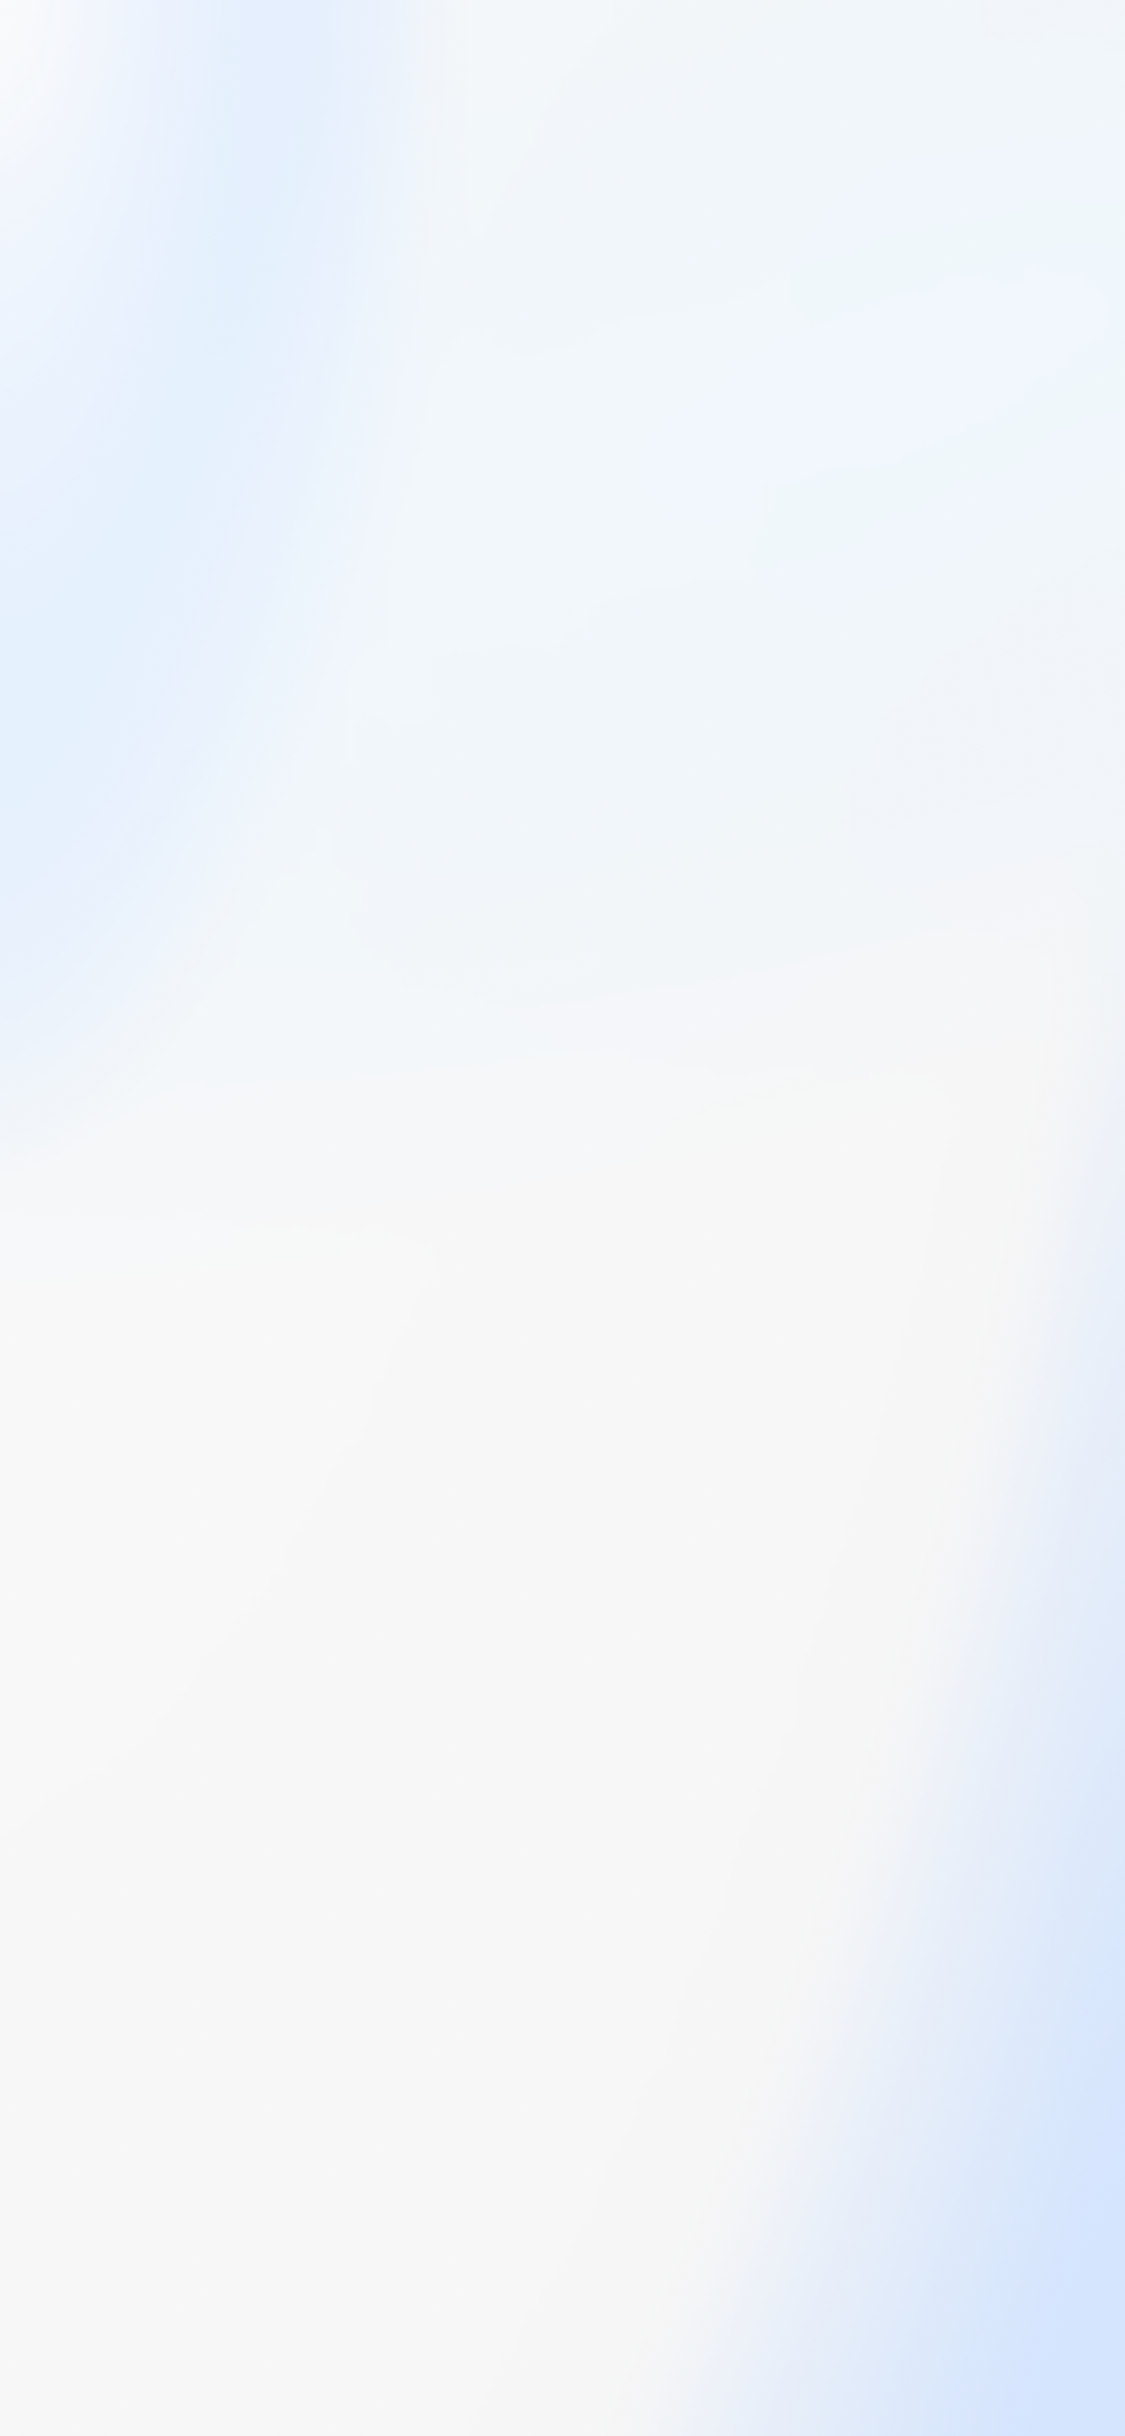
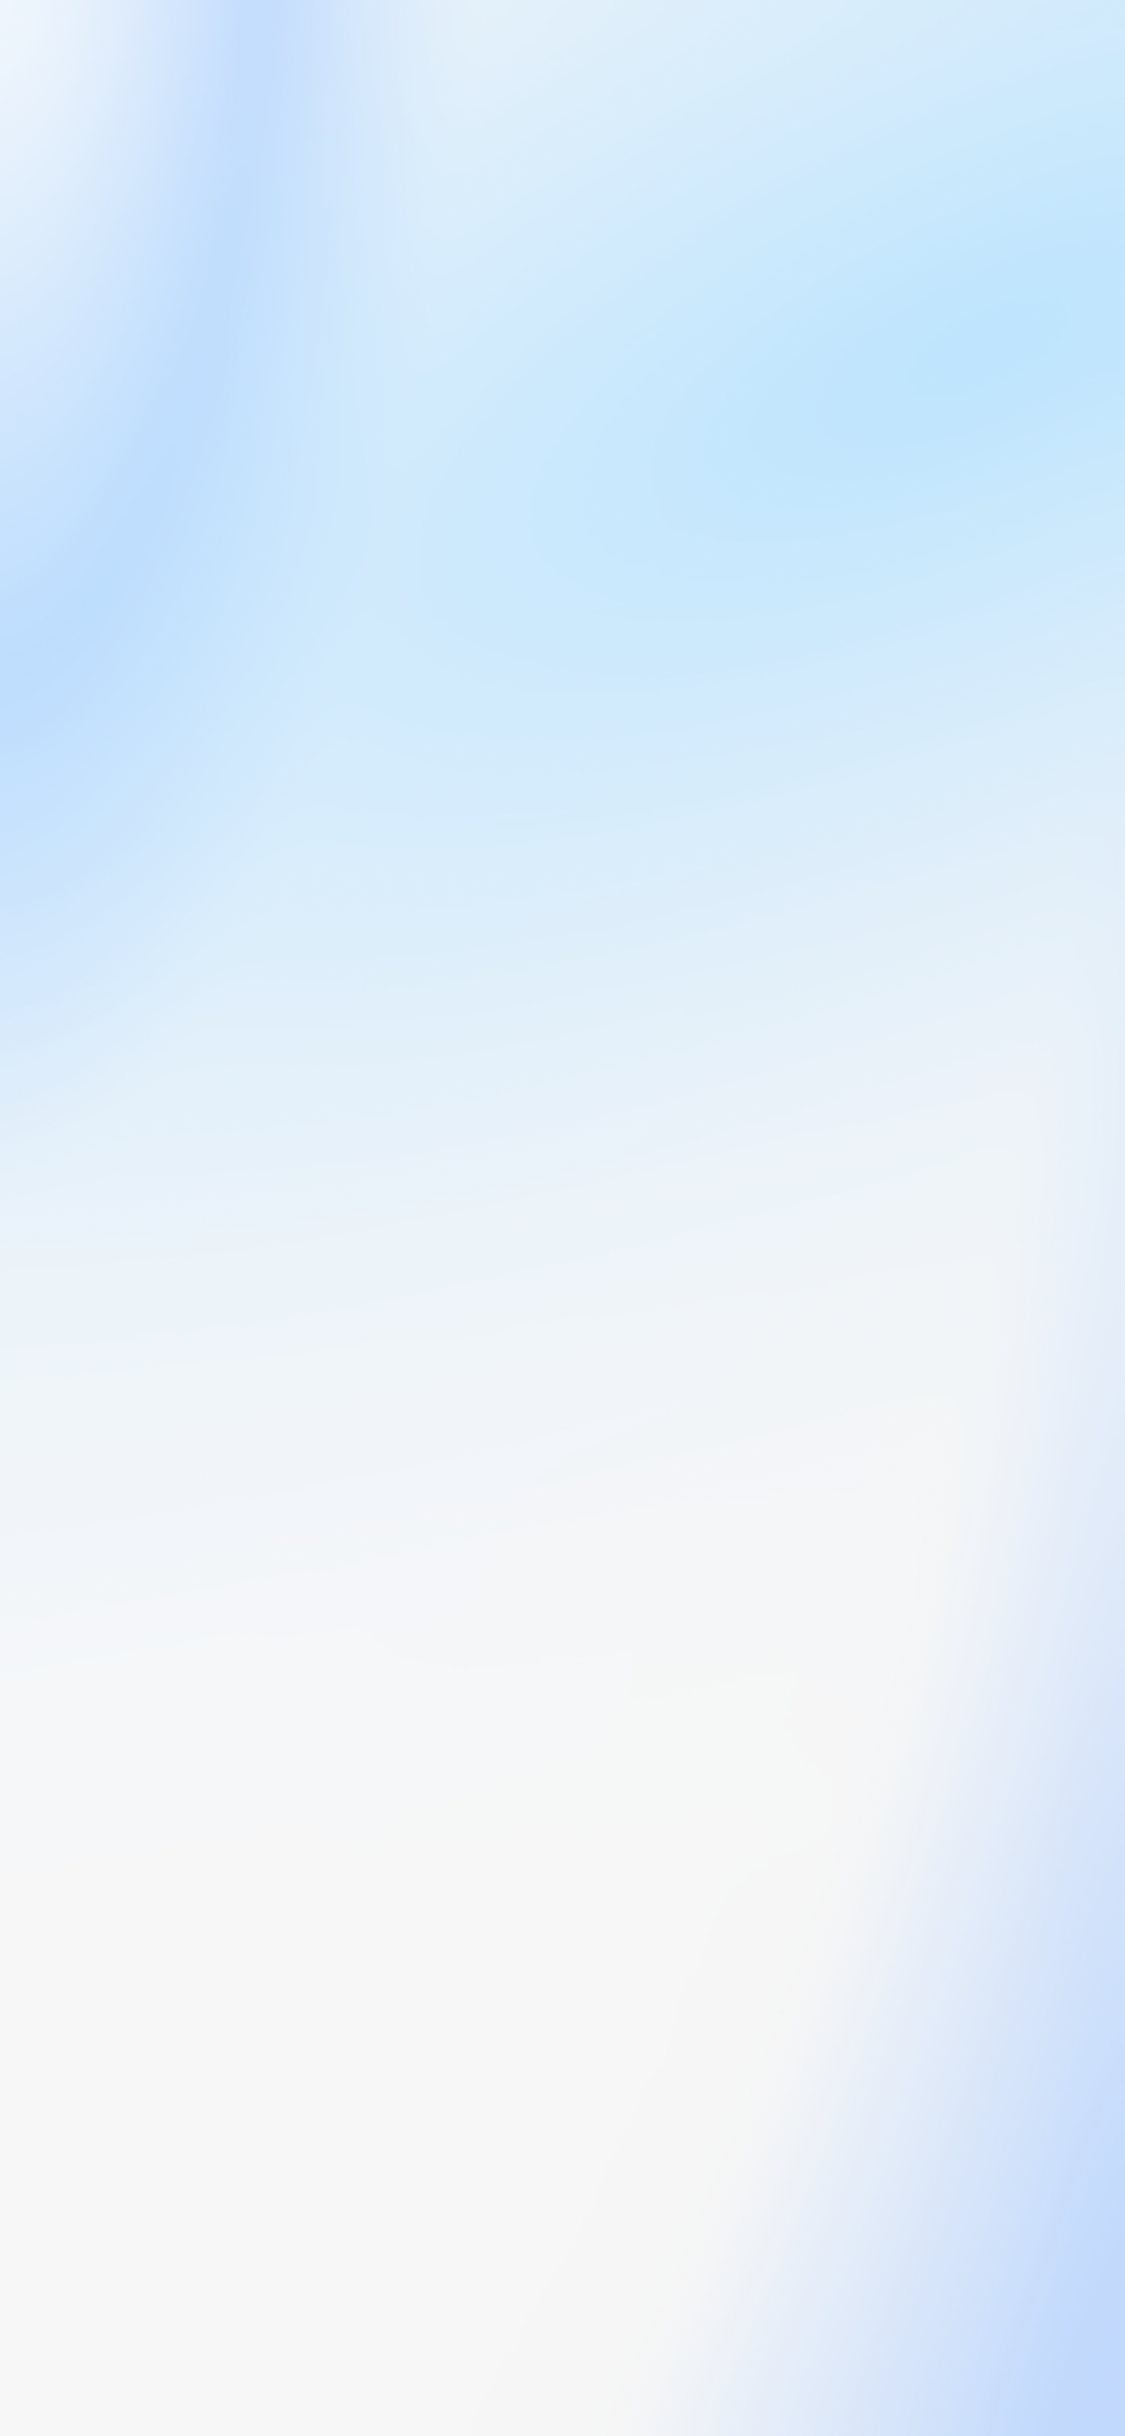
style: 배경 및 통근버스 디자인 수정, 홈 아이콘 추가

Changed region(s): [[0.0, 0.0, 1.0, 0.4056]]

diff --git a/lib/pages/bus/widgets/commuterBus.dart b/lib/pages/bus/widgets/commuterBus.dart
@@ -196,14 +196,10 @@ Widget renderLeftSide(String value) {
           width: SizeConfig.sizeByWidth(100),
           alignment: Alignment.centerRight,
           child: TextBox(value, 12, FontWeight.w500, Colors.black)),
-      Container(
-        margin: EdgeInsets.symmetric(horizontal: SizeConfig.sizeByWidth(10)),
-        width: SizeConfig.sizeByHeight(11),
-        height: SizeConfig.sizeByHeight(11),
-      ),
+      renderCirleWithShadow(3),
       Container(
         width: SizeConfig.sizeByWidth(100),
-      )
+      ),
     ],
   );
 }
@@ -215,11 +211,7 @@ Widget renderRightSide(String value) {
       Container(
         width: SizeConfig.sizeByWidth(100),
       ),
-      Container(
-        margin: EdgeInsets.symmetric(horizontal: SizeConfig.sizeByWidth(10)),
-        width: SizeConfig.sizeByHeight(11),
-        height: SizeConfig.sizeByHeight(11),
-      ),
+      renderCirleWithShadow(3),
       Container(
           width: SizeConfig.sizeByWidth(100),
           alignment: Alignment.centerLeft,
